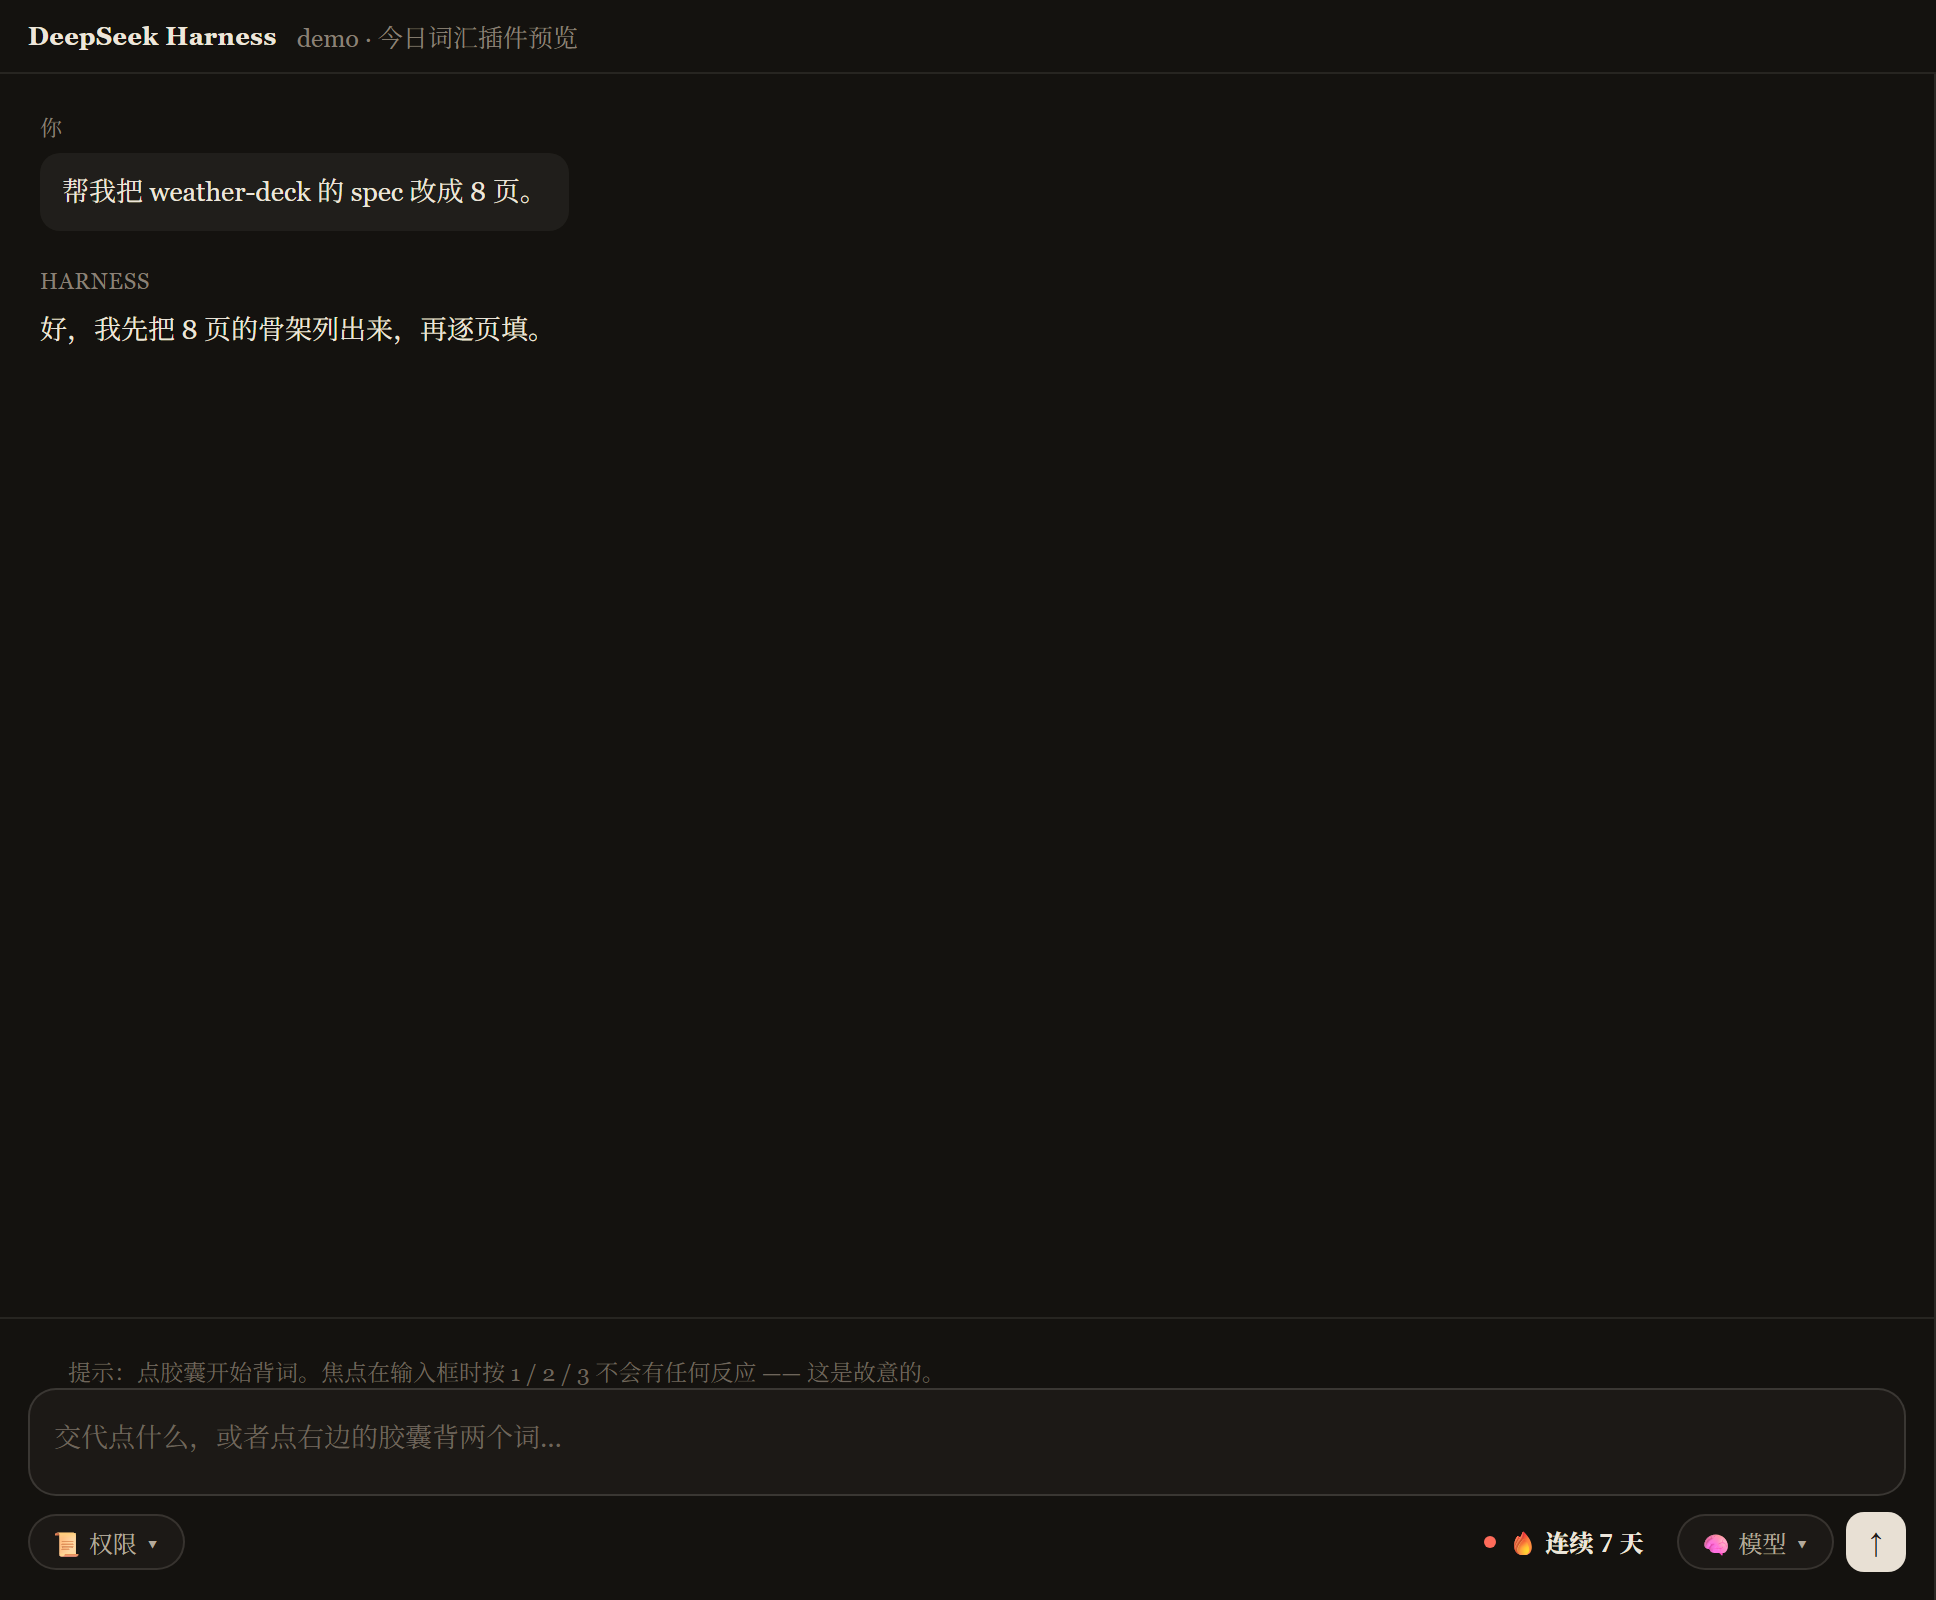
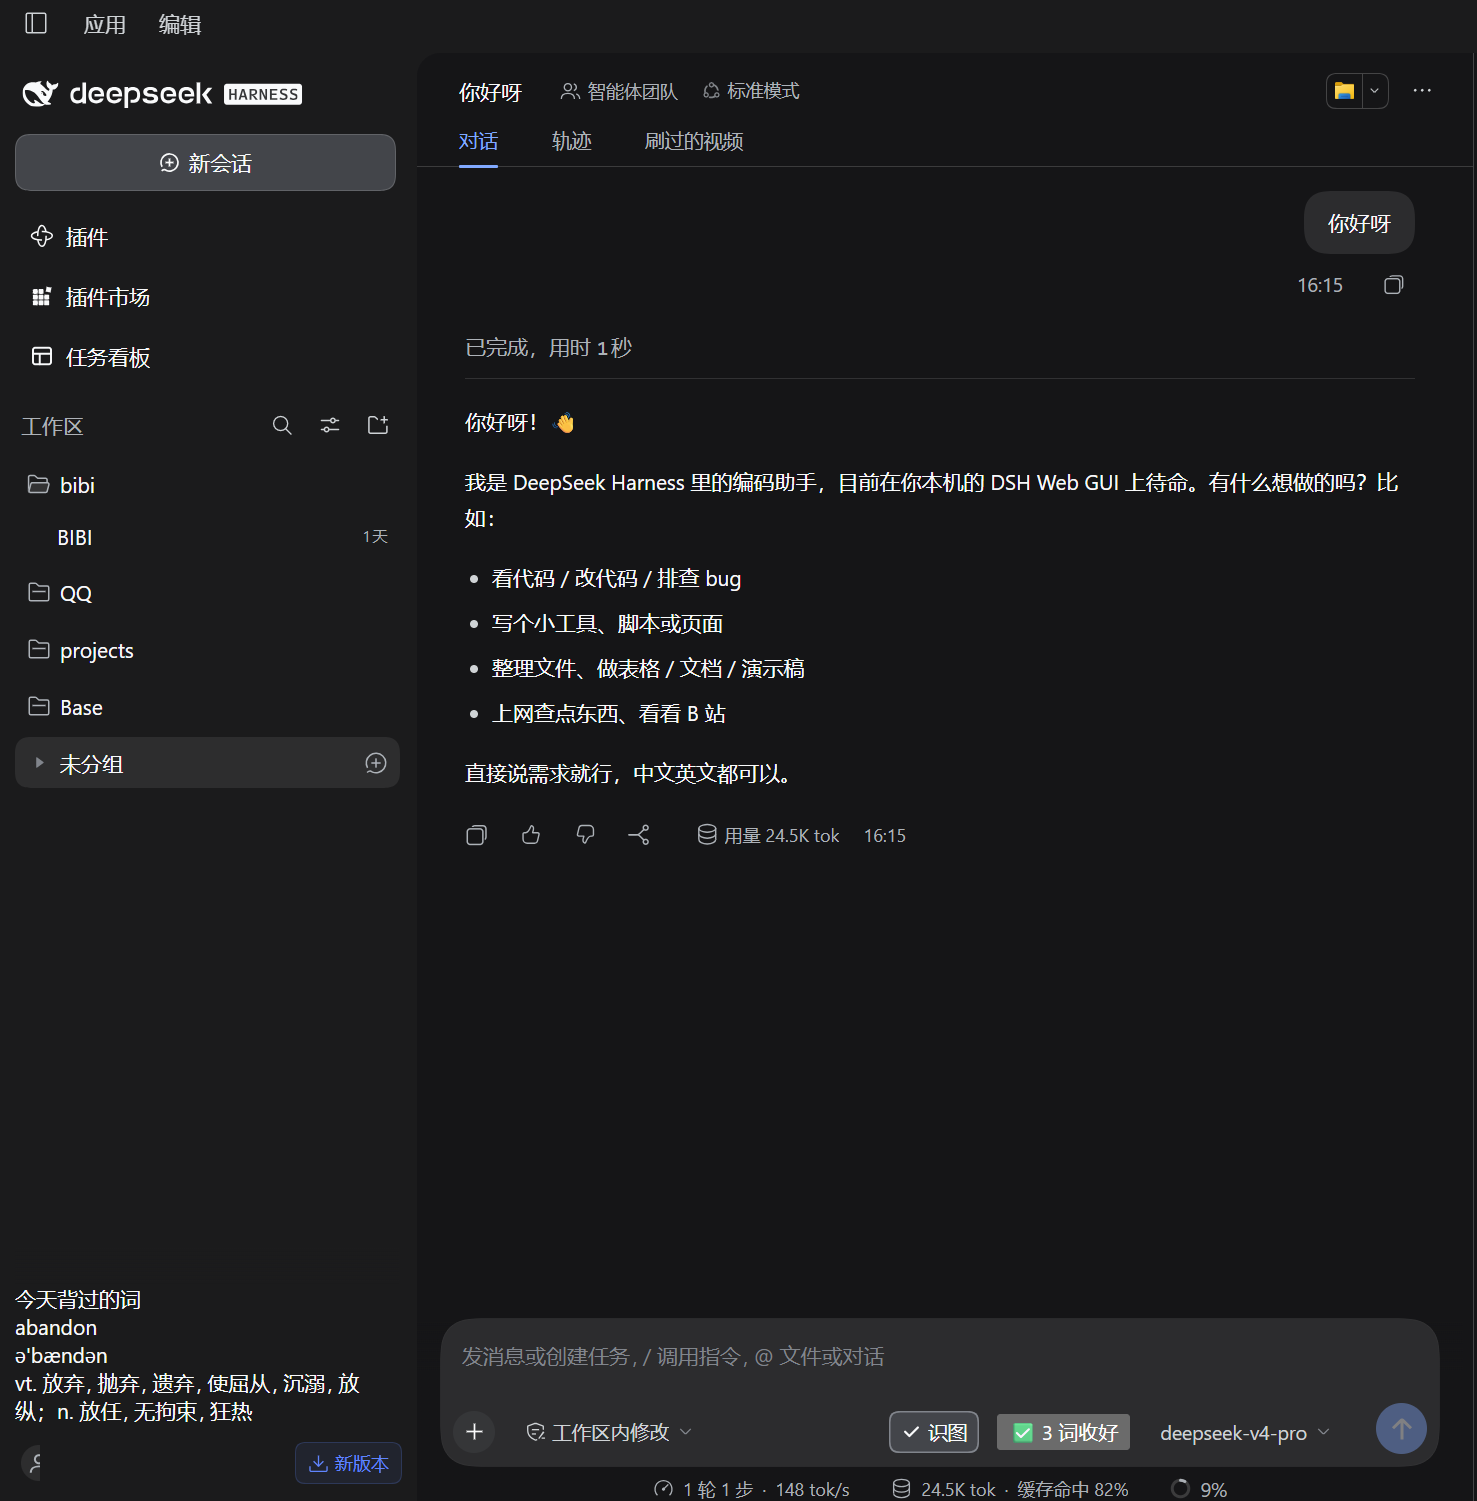
chore(assets): 市场预览图换成真界面（卡片背面 + 眼熟小组件）
- screenshot-1-capsule.png：全工作区截图 —— 输入框旁的胶囊（显示「3 词收好」）
  和左侧栏底部的眼熟小组件同框；左下角账号手机号已涂掉
- screenshot-2-panel.png：卡片背面 —— 词根词缀 / 同族词 / 例句
- README：两张图的图注跟新内容对齐
- SHIPPING：提醒 make-screenshots.mjs 会覆盖这两个文件

市场详情页从仓库 HEAD 实时读 screenshots.json，推到远端即生效，不需要发版。

diff --git a/README.md b/README.md
@@ -73,11 +73,15 @@ python tools/install.py
 
 **① 输入框旁那颗胶囊**（`conversation.input.right`，排在「权限」与「模型」之间）：
 
-![输入框旁的胶囊](assets/screenshot-1-capsule.png)
+![输入框旁的胶囊，以及左侧栏底部的眼熟小组件](assets/screenshot-1-capsule.png)
 
-**② 右侧栏里的面板**（`sidebar.right.pane.tab`，四个页签：今日 / 进度 / 生词本 / 设置）：
+> 胶囊当时显示成「3 词收好」；左侧栏底部那张「今天背过的词 abandon」是 0.3.1 加的眼熟小组件。
 
-![右侧栏里的面板](assets/screenshot-2-panel.png)
+**② 右侧栏里的面板 · 卡片背面**（`sidebar.right.pane.tab`，四个页签：今日 / 进度 / 生词本 / 设置）：
+
+![右侧栏面板的卡片背面：词根词缀、同族词、例句](assets/screenshot-2-panel.png)
+
+> 这张特意截的是背面 —— 词根词缀、同族词、例句，0.2.8 之后卡片才有这些。
 
 | 位置 | 内容 |
 |---|---|

diff --git a/SHIPPING.md b/SHIPPING.md
@@ -285,6 +285,12 @@ description:
 
 不声明也行：市场会退而从 README 里抽图。
 
+> ⚠ **`assets/screenshot-1-capsule.png` 和 `screenshot-2-panel.png` 现在是真界面截图**
+> （2026-10-27 换的：一张是全工作区+左侧眼熟小组件，一张是卡片背面）。
+> 但 `tools/make-screenshots.mjs` 会**重新生成并覆盖这两个文件**（它画的是带演示字幕的合成图）。
+> 所以：**不要随手跑 `npm run screenshots`**，除非你就是要换回合成图。
+> 市场详情页从仓库 HEAD 实时读 `screenshots.json`，改完推到远端市场就会跟着变，不用发版。
+
 ---
 
 ## 发布 npm
